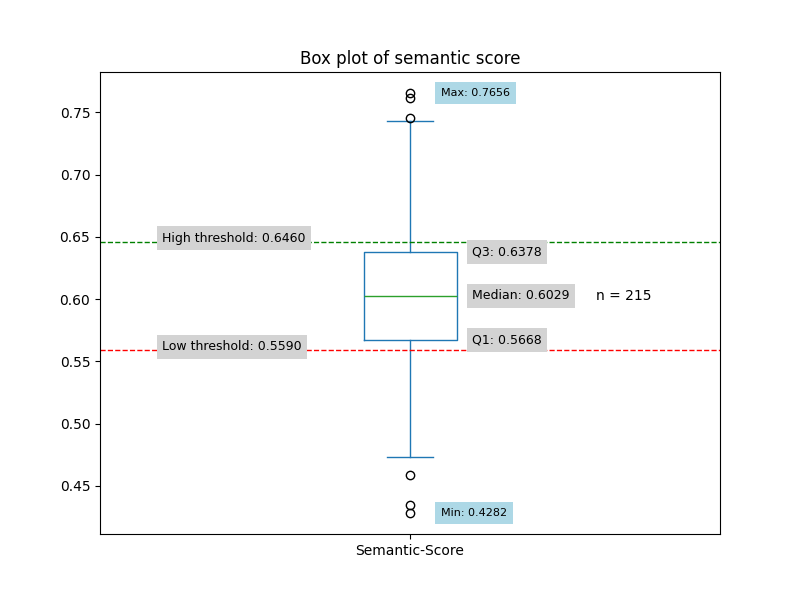
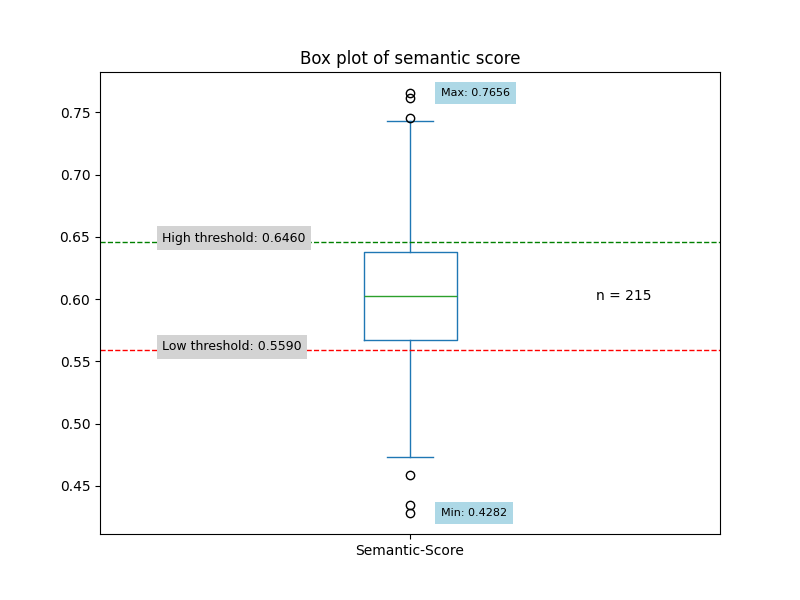
more change

Changed region(s): [[0.5625, 0.39, 0.7188, 0.6]]

diff --git a/ITU Bachelor 2025/Sections/Discussion.tex b/ITU Bachelor 2025/Sections/Discussion.tex
@@ -17,16 +17,15 @@ Execution times came upwards to 3 hours on merge commits, where multiply files w
 \subsection{Q2 Discussion}
 \label{sec:DiscussionQ2}
 "\textit{\subquestionII}"
-A semantic similarity score should, opposite to just looking at character comparison, give a quantitative measure for how much of the semantic meaning is present between two texts. This is why we chose to use the semantic similarity model from Sentence Transformers to compare the similarity between function-level documentation created by a human developer and by DocTide, to get a understanding of how similar to what the human developer intent to explain in a function-level documentation DocTide manages to generate. And in our qualitative analysis of the generated semantic similarity score(\Cref{sec:identifying thresholds}) we found this models scores to be a good indicate for this measurement. But to answer the sub-question \textbf{Q2} the measurement alone falls a bit short. Even though this is a great indication for what kind of value you can expect a system like DocTide to delivery in terms of the 
-
-
-But with DocTides limited context understanding, only the source code of the function, 
+A semantic similarity score should, opposite to just looking at character comparison, give a quantitative measure for how much of the semantic meaning is present between two texts. This is why we chose to use the semantic similarity model from Sentence Transformers to compare the similarity between function-level documentation created by a human developer and by DocTide, to get a understanding of how similar to what the human developers intent to explain in a function-level documentation DocTide manages to generate. And in our qualitative analysis of the generated semantic similarity score(\Cref{sec:identifying thresholds}) we found this models scores to be a good indicate for this measurement. This measurement does not cover all attributes of documentation and does therefor not cover the all the ways to asses to what level DocTide is able to produce function-level documentation compared to that of a human developer, but it gives an indication on one of the more humane attributes by looking at what level DocTide captures the same intent with the documentation as the developer does.
+Reflecting upon why the score was as it was, when looking at some of the data there were a correlation between poorly scored documentations and the developer documentation containing context which was derived from other files or how the function was used and not only its implementation. 
+This could hypothesize that introducing more context to DocTide would improve its semantic scores, this hypothesis could be further motivated by having a developer create function-level documentation given only the source code of the function, operating under the same restrictions as DocTide, and see if the developers semantic score would follow the same distribution, indicating that it is the lack of context that is a factor for the level of similarity or if the developer scored higher, indicating that human intuition is a driving factor.
 \subsection{Q3 Discussion}
 \label{sec:DiscussionQ3}
 "\textit{\subquestionIII}"
-The results of the experiment as described in \cref{sec:suc_results} shows a \textit{'success\_rate'} for DocTide at \textit{68.57\%}, meaning that \textit of the time the DocTide agent has attempted to generate documentation, it has resulted in documentation following the format described in \cref{sec:method} which has been inserted in the code. 
+The results of the experiment as described in \cref{sec:suc_results} shows a \textit{'success\_rate'} for DocTide at \textit{68.99\%}, meaning that \textit{68.99\%} of the time the DocTide agent has attempted to generate documentation, it has resulted in documentation following the format described in \cref{sec:method} which has been inserted back into the code base. 
 \subsubsection*{Current documentation coverage}
-To discuss the implications of this, the python tool \textit{'docstr-coverage'}\footnote{\url{https://pypi.org/project/docstr-coverage/}} is ran on the same repository as the experiment was executed. This tool scans the entire codebase of the repository, identifies possible locations for method-level documentation, and meassures this coverage of these. As seen in \cref{lst:doc_percent_flask} this shows that the repository has method level documentation coverage of \textit{38.7\%}, implying that if the same project was ran with only DocTide handling documentation, the project would have a higher coverage of method level documentation than its current state.
+To discuss the implications of this, the python tool \textit{'docstr-coverage'}\footnote{\url{https://pypi.org/project/docstr-coverage/}} is ran on the same repository as the experiment was executed. This tool scans the entire codebase of the repository, identifies possible locations for method-level documentation, and meassures this coverage of these. As seen in \cref{lst:doc_percent_flask}, the results of this shows that the repository has method level documentation coverage of \textit{38.7\%}, implying that if the same project was ran with only DocTide handling documentation, the project would have a higher coverage of method level documentation than its current state.
 
 \begin{lstlisting}[language=sh, label={lst:doc_percent_flask},      caption= Ratio of method level documentation in flask repository]
     Needed: 8193  -  Found: 3169  -  Missing: 5024

diff --git a/ITU Bachelor 2025/Sections/Experiment.tex b/ITU Bachelor 2025/Sections/Experiment.tex
@@ -22,20 +22,20 @@ Running the experiment resulted in the collection of \textbf{215} unique sets of
 \label{fig:sem_hist}
 \end{figure}
 
-Before being able to infer any information from this result, the result is processed in order to qualitatively identify what merits as a \textit{'good'} score in semantic similarity. The three quality buckets \textit{'Low-'}, \textit{'Medium-'} and \textit{'High similarity'}, and the thresholds between these is identified as follows:
+Before being able to infer any information from this result, the result is processed in order to qualitatively identify the thresholds between the three quality buckets \textit{'Low-'}, \textit{'Medium-'} and \textit{'High similarity'} as described in section \cref{sec:method}.:
 \\\\
-First a \textbf{sample} is taken from the result pairs, which all contain the original comment, the agent generated comment and the semantic score. As \cref{fig:sem_hist} shows the results following a normal distribution, the \textbf{sample} is taken to be representing by utilizing \textit{stratified sampling}\footnote{\url{https://www.geeksforgeeks.org/stratified-sampling-in-pandas/}}. The column containing the semantic score is then disabled, and each pair is qualitatively inspected by comparing the original comment to the agent generated comment, before finally being assigned to one of the three buckets described above. For the entire results of the categorization of the sample, see table in \cref{appendix:sample_table}.
+First a \textbf{sample} is taken from the result pairs, which all contain the original comment, the agent generated comment and the semantic score. As seen in \cref{fig:sem_hist} the results follows a normal distribution, so a \textbf{sample} is taken to be representing of this, by utilizing \textit{stratified sampling}\footnote{\url{https://www.geeksforgeeks.org/stratified-sampling-in-pandas/}}. The column containing the semantic score is then hidden, and each pair is qualitatively inspected by comparing the original comment to the agent generated comment, before finally being assigned to one of the three quality buckets. For the entire results of this categorization of the sample, see table in \cref{appendix:sample_table}.
 
-Next the \textbf{sample} is grouped by the assigned buckets, and summary statistics is calculated as seen in \textcolor{red}{Indsæt tabel over dette efter labeling stadie} and finally the thresholds is then calculated by summing the first and third quartile from the higher and lower bucket respectively.:
+Next the \textbf{sample} is grouped by the assigned buckets, and summary statistics is calculated, before finally the thresholds is calculated by summing the maximum and minimum value higher and lower bucket respectively.:
 \[
-Low\_to\_medium = \frac{Q1_{medium}+Q3_{low}}{2} = \textcolor{red}{???}
+Low\_to\_medium = \frac{Max_{low}+Min_{medium}}{2} = 0.5590
 \]
 \[
-Medium\_to\_high = \frac{Q1_{high}+Q3_{medium}}{2} = \textcolor{red}{???}
+Medium\_to\_high = \frac{Max_{medium}+Min_{high}}{2} = 0.6460
 \]
 
 \subsubsection{Results}
-In \cref{fig:sem_box} the results of the experiment is plotted against the quality thresholds identified above. Out of the 117 datapoints collected, \textcolor{red}{Skriv hvordan de ligger i forhold til thresholds med outliers, quantiles osv. - Venter på labeling}
+In \cref{fig:sem_box} the results of the experiment is plotted against the quality thresholds as identified in \cref{sec:method}, and from this it is shown that the majority of the data points falls within the buckets of \textit{medium-} and \textit{high similarity}, with bucket of \textit{medium similarity} as the must frequent with more than 50\% of the data points.
 
 \label{sec:sem_results}
 \begin{figure}[H]
@@ -44,6 +44,9 @@ In \cref{fig:sem_box} the results of the experiment is plotted against the quali
 \caption{Box plot showing the summary-statistics of the semantic scores against the identified thresholds.}
 \label{fig:sem_box}
 \end{figure}
+
+\noindent
+The exact distribution across the identified thresholds is as follows: 78.14\% of the results has a semantic score above the low threshold, and 22.79\% is above the high threshold, leaving 55.35\% to fall in the bucket of \textit{medium similarity} between the two thresholds.
 
 \subsection{Reliability}
 When running the DocTide agent with the 'testing' flag set to true, a success rate is collected for how many attempts ends with the agent generating documentation in the correct format.

diff --git a/ITU Bachelor 2025/Sections/Method.tex b/ITU Bachelor 2025/Sections/Method.tex
@@ -25,9 +25,9 @@ To investigate \textbf{Q1}, a prototype of an autonomous agent, DocTide is devel
 
 The \textit{`human similarity metric'} is defined as the similarity in meaning between documentation DocTide creates and original documentation present in repository. This is scored using the CossEncoder from sentence transformers\footnote{\url{https://sbert.net/examples/cross_encoder/applications/README.html}} to get a semantic similarity score between existing function level documentation and function level documentation created be DocTide. To understand the scoring produced, the threshold is identified qualitatively between three buckets identified as follows:
 \begin{itemize}
-    \item \textbf{Low similarity:} Agent generated documentation fails to convey any of the information provided in the original documentation, or conveys wrong information.
-    \item \textbf{Medium similarity:} Agent generated documentation convey some correct information reflecting parts of the original documentation, and no wrong information is provided.
-    \item \textbf{High similarity:} Agent generated documentation correctly conveys the majority of information provided in the original documentation, only missing minute 
+    \item \textbf{Low similarity:} Agent generated documentation fails to convey any of the information provided in the original documentation.
+    \item \textbf{Medium similarity:} Agent generated documentation convey some correct information reflecting parts of the original documentation.
+    \item \textbf{High similarity:} Agent generated documentation correctly conveys the majority of information provided in the original documentation.
 \end{itemize}
 The results of this is presented in section \ref{sec:sem_results}, and discussed in section \ref{sec:DiscussionQ2}.
 
